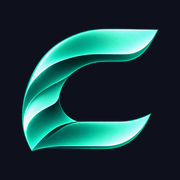
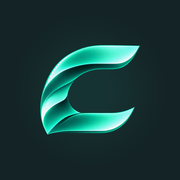
Novo ícone do app na tela de início (iPhone e Android)
Claude-Session: https://claude.ai/code/session_01AWJYUzegZY9jjkm7qXpmJs

diff --git a/app/index.html b/app/index.html
@@ -9,8 +9,8 @@
   <link rel="preconnect" href="https://fonts.gstatic.com" crossorigin />
   <link href="https://fonts.googleapis.com/css2?family=Manrope:wght@400;500;600;700;800&display=swap" rel="stylesheet" />
   <link rel="icon" type="image/png" sizes="64x64" href="/favicon.png" />
-  <link rel="apple-touch-icon" href="/apple-touch-icon.png" />
-  <link rel="manifest" href="/manifest.webmanifest" />
+  <link rel="apple-touch-icon" sizes="180x180" href="/apple-touch-icon.png?v=2" />
+  <link rel="manifest" href="/manifest.webmanifest?v=2" />
   <meta name="theme-color" content="#0b1517" />
   <!-- aberto pela tela de início do iPhone: tela cheia, como app (necessário para as notificações) -->
   <meta name="apple-mobile-web-app-capable" content="yes" />
